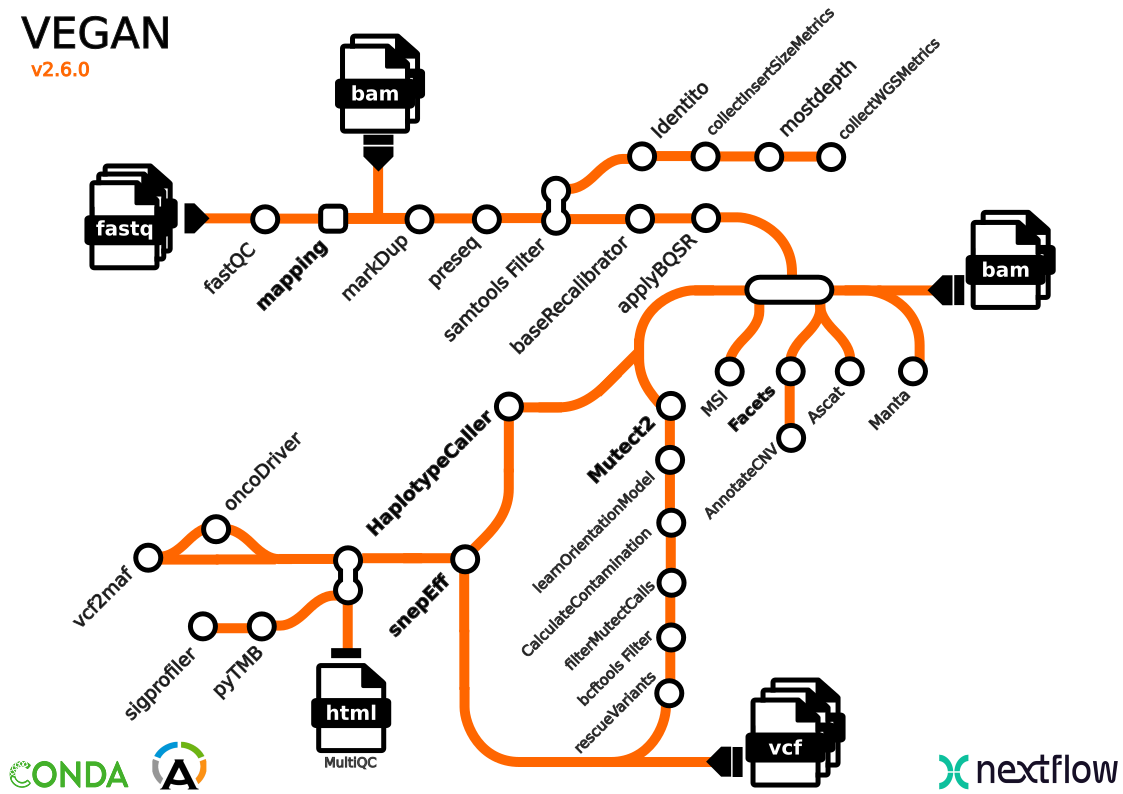
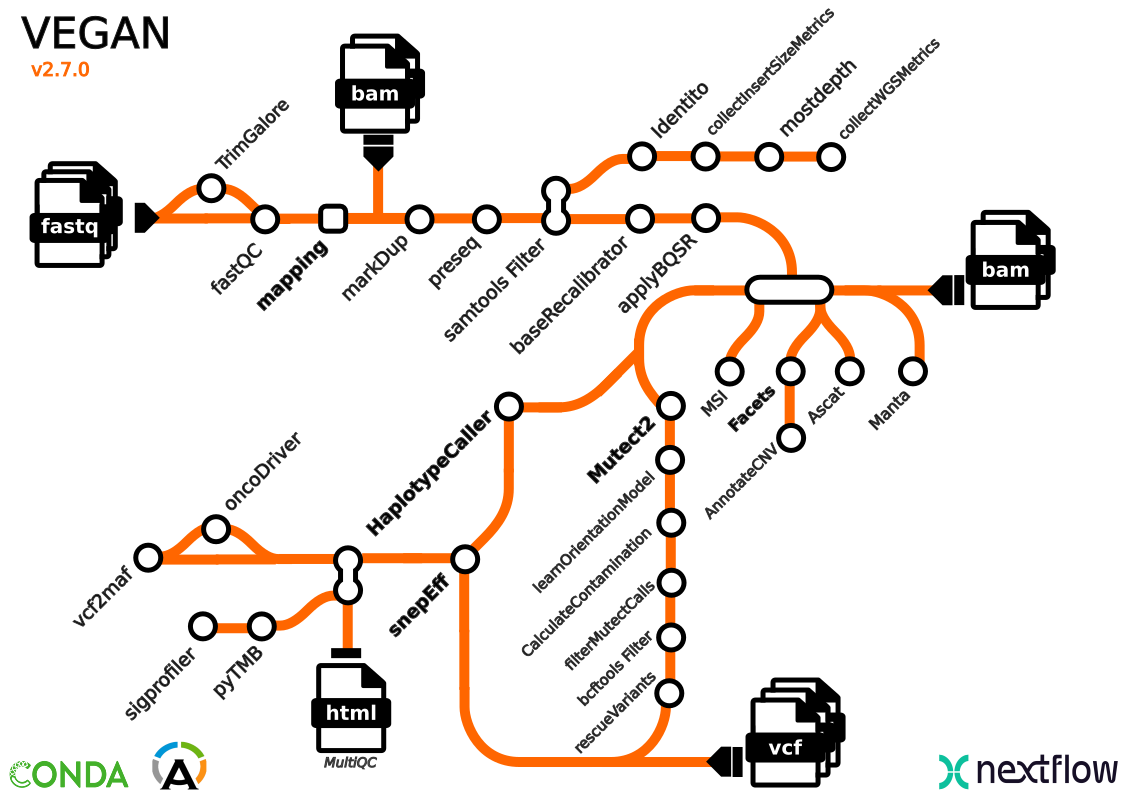
[MODIF] add trimming in README

diff --git a/README.md b/README.md
@@ -64,7 +64,7 @@ Launching `main.nf` [magical_lovelace] DSL2 - revision: 6d760c486c
    |_| \_| |_|                \_/    |_____|  \____| /_/   \_\ |_| \_|
 
 
-                   VEGAN v2.6.0
+                   VEGAN v2.7.0
 ------------------------------------------------------------------------
 
     Usage:
@@ -97,6 +97,9 @@ INPUTS:
 OUTPUTS:
     --cleanup STRING [none, auto, success]  Cleaning strategy of the work/ directory
     --outDir  PATH                          The output directory where the results will be saved
+
+TRIMMING:
+    --trimming                 Trim sequencing reads
 
 ALIGNMENT:
     --aligner                  STRING [bwa-mem, bwa-mem2, dragmap]   Specify tools to use for mapping
